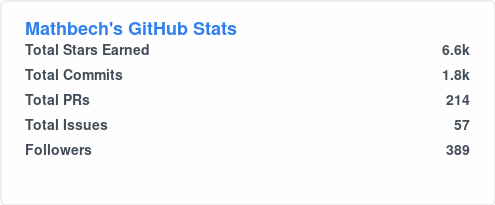
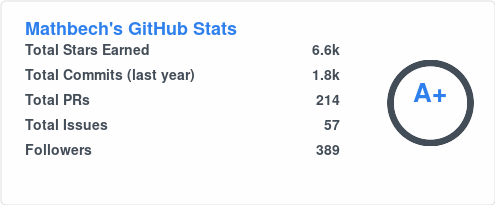
fix: update label for total commits to specify "last year" in SVG and… (#3)
* fix: update label for total commits to specify "last year" in SVG and JS files

* feat: add rank calculation and reviews to stats

- Implemented rank calculation based on commits, PRs, issues, reviews, stars, and followers.
- Updated stats fetching to include total pull request review contributions.
- Modified SVG rendering to display rank as a circular progress indicator.
- Enhanced README with new parameters and deployment instructions.
- Updated preview generation scripts to reflect changes in stats structure.

* chore: update README to include online instance URL and remove sensitive configuration details

diff --git a/src/cards/stats.js b/src/cards/stats.js
@@ -1,6 +1,7 @@
-// Rend une carte SVG de stats GitHub.
+// Rend une carte SVG de stats GitHub, avec cercle de rang (S, A+, ... C).
 import { escapeXml, formatNumber, sanitizeHex, parseBool } from "../utils.js";
 import { resolveTheme } from "../themes.js";
+import { calculateRank } from "../rank.js";
 
 export function renderStatsCard(stats, query = {}) {
   const t = resolveTheme(query);
@@ -9,16 +10,18 @@ export function renderStatsCard(stats, query = {}) {
   const icon_color = sanitizeHex(t.icon_color, "#4c71f2").slice(1);
   const bg_color = sanitizeHex(t.bg_color, "#fffefe").slice(1);
   const border_color = sanitizeHex(t.border_color, "#e4e2e2").slice(1);
+  const ring_color = sanitizeHex(query.ring_color, `#${title_color}`).slice(1);
 
   const hideBorder = parseBool(query.hide_border, false);
   const showIcons = parseBool(query.show_icons, false);
+  const hideRank = parseBool(query.hide_rank, false);
   const customTitle = query.custom_title
     ? escapeXml(query.custom_title)
     : `${escapeXml(stats.name)}'s GitHub Stats`;
 
   const rows = [
     { icon: "⭐", label: "Total Stars Earned", value: stats.stars },
-    { icon: "⬆", label: "Total Commits", value: stats.commits },
+    { icon: "⬆", label: "Total Commits (last year)", value: stats.commits },
     { icon: "🔀", label: "Total PRs", value: stats.prs },
     { icon: "ⓘ", label: "Total Issues", value: stats.issues },
     { icon: "👥", label: "Followers", value: stats.followers },
@@ -28,6 +31,10 @@ export function renderStatsCard(stats, query = {}) {
   const startY = 55;
   const width = 495;
   const height = startY + rows.length * lineHeight + 25;
+
+  // Espace réservé à droite pour le cercle de rang.
+  const ringSpace = hideRank ? 0 : 130;
+  const valueRightX = width - 25 - ringSpace;
 
   const rowsSvg = rows
     .map((r, i) => {
@@ -40,15 +47,42 @@ export function renderStatsCard(stats, query = {}) {
       <g>
         ${iconSvg}
         <text x="${labelX}" y="${y}" fill="#${text_color}" font-size="14" font-weight="600">${r.label}</text>
-        <text x="${width - 25}" y="${y}" fill="#${text_color}" font-size="14" font-weight="700" text-anchor="end">${formatNumber(r.value)}</text>
+        <text x="${valueRightX}" y="${y}" fill="#${text_color}" font-size="14" font-weight="700" text-anchor="end">${formatNumber(r.value)}</text>
       </g>`;
     })
     .join("");
+
+  let rankSvg = "";
+  if (!hideRank) {
+    const { level, percentile } = calculateRank({
+      commits: stats.commits,
+      prs: stats.prs,
+      issues: stats.issues,
+      reviews: stats.reviews || 0,
+      stars: stats.stars,
+      followers: stats.followers,
+    });
+    const cx = width - 65;
+    const cy = startY + (rows.length * lineHeight) / 2 - 15;
+    const r = 40;
+    const circumference = 2 * Math.PI * r;
+    // Portion remplie = (100 - percentile) / 100 → meilleur rang = plus rempli.
+    const offset = (circumference * percentile) / 100;
+    rankSvg = `
+    <g>
+      <circle cx="${cx}" cy="${cy}" r="${r}" fill="none" stroke="#${text_color}" stroke-opacity="0.2" stroke-width="6"/>
+      <circle cx="${cx}" cy="${cy}" r="${r}" fill="none" stroke="#${ring_color}" stroke-width="6"
+              stroke-linecap="round" stroke-dasharray="${circumference.toFixed(2)}"
+              stroke-dashoffset="${offset.toFixed(2)}" transform="rotate(-90 ${cx} ${cy})"/>
+      <text x="${cx}" y="${cy}" fill="#${title_color}" font-size="26" font-weight="700"
+            text-anchor="middle" dominant-baseline="central">${level}</text>
+    </g>`;
+  }
 
   return `<svg width="${width}" height="${height}" viewBox="0 0 ${width} ${height}" fill="none" xmlns="http://www.w3.org/2000/svg" role="img" aria-label="${customTitle}">
   <rect x="0.5" y="0.5" rx="4.5" width="${width - 1}" height="${height - 1}" fill="#${bg_color}" stroke="#${border_color}" stroke-opacity="${hideBorder ? 0 : 1}"/>
   <text x="25" y="35" fill="#${title_color}" font-size="18" font-weight="700" font-family="Segoe UI, Ubuntu, sans-serif">${customTitle}</text>
   <g font-family="Segoe UI, Ubuntu, sans-serif">${rowsSvg}
-  </g>
+  </g>${rankSvg}
 </svg>`;
 }

diff --git a/src/rank.js b/src/rank.js
@@ -1,0 +1,65 @@
+// Calcul du rang (S, A+, A, A-, B+, B, B-, C+, C), repris de l'algorithme de
+// github-readme-stats : somme pondérée de percentiles via CDF exponentielle et
+// log-normale. Ce n'est PAS une métrique officielle GitHub, juste un score.
+
+function exponentialCdf(x) {
+  return 1 - 2 ** -x;
+}
+
+function logNormalCdf(x) {
+  // Approximation utilisée par github-readme-stats.
+  return x / (1 + x);
+}
+
+/**
+ * @param {{commits:number, prs:number, issues:number, reviews:number,
+ *          stars:number, followers:number, allCommits?:boolean}} p
+ * @returns {{ level:string, percentile:number }} percentile : 0 (meilleur) → 100
+ */
+export function calculateRank({
+  commits = 0,
+  prs = 0,
+  issues = 0,
+  reviews = 0,
+  stars = 0,
+  followers = 0,
+  allCommits = false,
+}) {
+  const COMMITS_MEDIAN = allCommits ? 1000 : 250;
+  const COMMITS_WEIGHT = 2;
+  const PRS_MEDIAN = 50;
+  const PRS_WEIGHT = 3;
+  const ISSUES_MEDIAN = 25;
+  const ISSUES_WEIGHT = 1;
+  const REVIEWS_MEDIAN = 2;
+  const REVIEWS_WEIGHT = 1;
+  const STARS_MEDIAN = 50;
+  const STARS_WEIGHT = 4;
+  const FOLLOWERS_MEDIAN = 10;
+  const FOLLOWERS_WEIGHT = 1;
+
+  const TOTAL_WEIGHT =
+    COMMITS_WEIGHT +
+    PRS_WEIGHT +
+    ISSUES_WEIGHT +
+    REVIEWS_WEIGHT +
+    STARS_WEIGHT +
+    FOLLOWERS_WEIGHT;
+
+  const THRESHOLDS = [1, 12.5, 25, 37.5, 50, 62.5, 75, 87.5, 100];
+  const LEVELS = ["S", "A+", "A", "A-", "B+", "B", "B-", "C+", "C"];
+
+  const rank =
+    1 -
+    (COMMITS_WEIGHT * exponentialCdf(commits / COMMITS_MEDIAN) +
+      PRS_WEIGHT * exponentialCdf(prs / PRS_MEDIAN) +
+      ISSUES_WEIGHT * exponentialCdf(issues / ISSUES_MEDIAN) +
+      REVIEWS_WEIGHT * exponentialCdf(reviews / REVIEWS_MEDIAN) +
+      STARS_WEIGHT * logNormalCdf(stars / STARS_MEDIAN) +
+      FOLLOWERS_WEIGHT * logNormalCdf(followers / FOLLOWERS_MEDIAN)) /
+      TOTAL_WEIGHT;
+
+  const percentile = rank * 100;
+  const level = LEVELS[THRESHOLDS.findIndex((t) => percentile <= t)];
+  return { level, percentile };
+}

diff --git a/src/github.js b/src/github.js
@@ -39,6 +39,7 @@ query userStats($login: String!) {
     contributionsCollection {
       totalCommitContributions
       restrictedContributionsCount
+      totalPullRequestReviewContributions
     }
     pullRequests(first: 1) { totalCount }
     issues(first: 1) { totalCount }
@@ -69,6 +70,7 @@ export async function fetchStats(username, { includeAllCommits = false } = {}) {
     commits,
     prs: user.pullRequests.totalCount,
     issues: user.issues.totalCount,
+    reviews: user.contributionsCollection.totalPullRequestReviewContributions,
     followers: user.followers.totalCount,
   };
 }

diff --git a/scripts/gen-previews.js b/scripts/gen-previews.js
@@ -10,7 +10,7 @@ import { renderTopLangsCard } from "../src/cards/top-langs.js";
 const outDir = join(dirname(fileURLToPath(import.meta.url)), "..", "assets");
 mkdirSync(outDir, { recursive: true });
 
-const stats = { name: "Mathbech", stars: 6626, commits: 1843, prs: 214, issues: 57, followers: 389 };
+const stats = { name: "Mathbech", stars: 6626, commits: 1843, prs: 214, issues: 57, reviews: 42, followers: 389 };
 const langs = [
   { name: "JavaScript", color: "#f1e05a", percent: 41.2 },
   { name: "TypeScript", color: "#3178c6", percent: 28.7 },

diff --git a/scripts/smoke.js b/scripts/smoke.js
@@ -4,7 +4,7 @@ import { writeFileSync } from "node:fs";
 import { renderStatsCard } from "../src/cards/stats.js";
 import { renderTopLangsCard } from "../src/cards/top-langs.js";
 
-const fakeStats = { name: "Mathbech", stars: 6626, commits: 1843, prs: 214, issues: 57, followers: 389 };
+const fakeStats = { name: "Mathbech", stars: 6626, commits: 1843, prs: 214, issues: 57, reviews: 42, followers: 389 };
 const fakeLangs = [
   { name: "JavaScript", color: "#f1e05a", percent: 41.2 },
   { name: "TypeScript", color: "#3178c6", percent: 28.7 },

diff --git a/README.md b/README.md
@@ -31,15 +31,15 @@ Aperçus générés avec des données factices (`node scripts/gen-previews.js`).
 ### Paramètres d'URL
 
 Communs : `theme`, `title_color`, `text_color`, `icon_color`, `bg_color`, `border_color`, `hide_border`, `custom_title`, `card_width`.
-Stats : `show_icons`, `include_all_commits`.
+Stats : `show_icons`, `include_all_commits`, `hide_rank`, `ring_color`.
 Top langs : `layout` (`normal`\|`compact`), `langs_count` (1–20).
 
 Thèmes fournis : `default`, `dark`, `radical`, `ocean_dark`, `tokyonight`. Ajoute les tiens dans `src/themes.js`.
 
+Le **rang** (cercle S / A+ / A … C) est un score calculé par le service (`src/rank.js`, même formule que github-readme-stats : somme pondérée de percentiles sur commits, PRs, issues, reviews, stars, followers). Ce n'est **pas** une métrique officielle GitHub. Masque-le avec `hide_rank=true`.
 
 Instance en ligne : `https://my-git-stats.bebech.fr`.
 
-
 ## Idées d'évolution
 
-Cartes `pin` / `gist` / `wakatime`, calcul du rang, pagination au-delà de 100 repos, cache Redis, rotation multi-tokens (`PAT_1..PAT_n`). La structure `src/cards/*` + route dans `server.js` est faite pour s'étendre.
+Cartes `pin` / `gist` / `wakatime`, pagination au-delà de 100 repos, cache Redis, rotation multi-tokens (`PAT_1..PAT_n`). La structure `src/cards/*` + route dans `server.js` est faite pour s'étendre.
